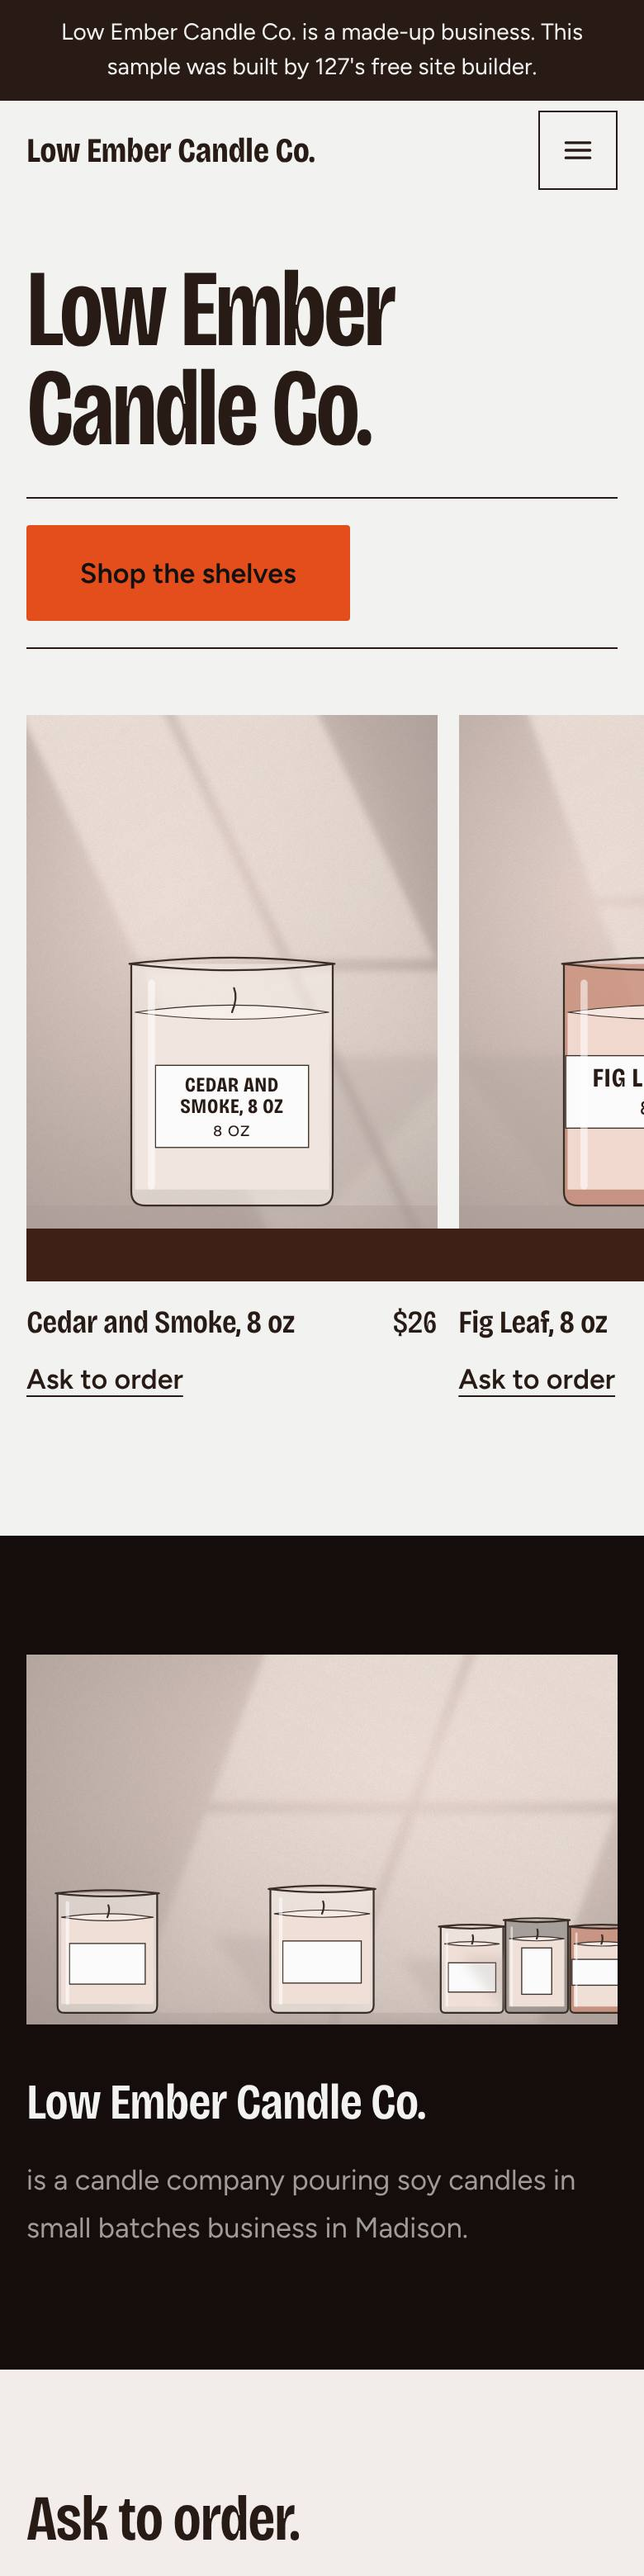
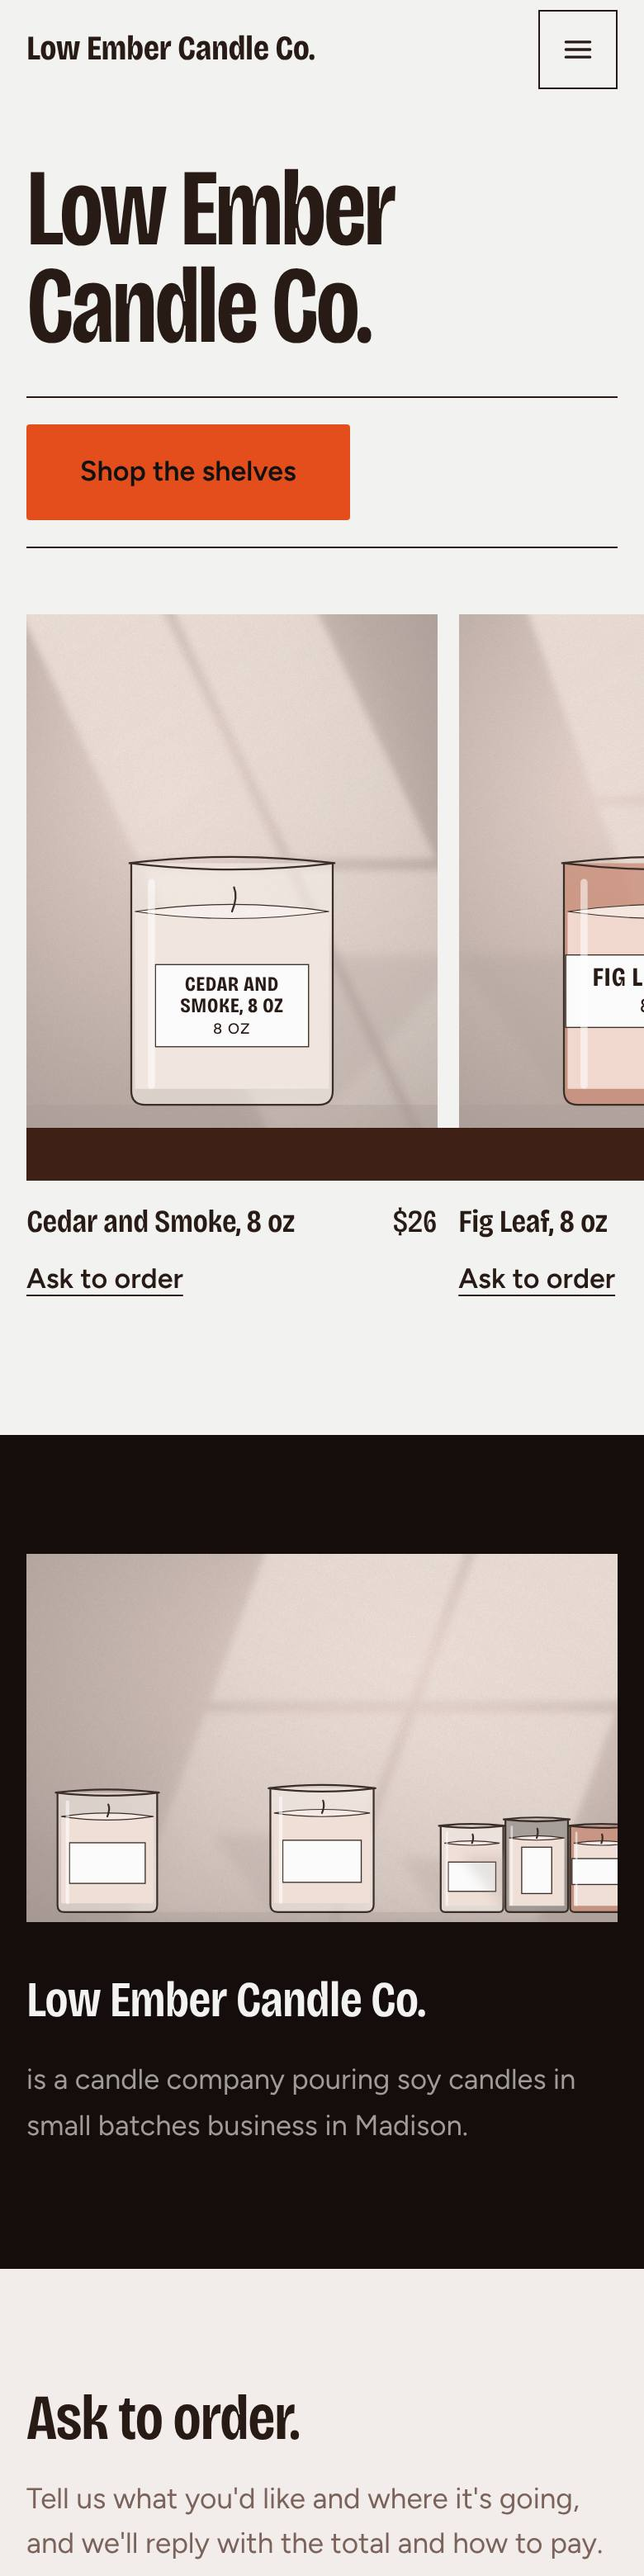
Verticals: leave the made-up-business note off the phone posters (the caption says it)
Claude-Session: https://claude.ai/code/session_01YAL187PJS8fXFrJsLpLuYH

diff --git a/scripts/build-verticals.js b/scripts/build-verticals.js
@@ -110,8 +110,10 @@ async function shots(list) {
   for (const v of list) {
     await page.goto(`file://${path.join(V.SAMPLES_DIR, `${v.slug}.html`)}`, { waitUntil: 'load' });
     await page.waitForTimeout(400);
-    // A full-page shot pins fixed bars (the phone call-to-action bar, a sticky nav) mid-page: take them out.
+    // A full-page shot pins fixed bars (the phone call-to-action bar, a sticky nav) mid-page: take them out. The
+    // made-up-business note goes too: the phone's corners clip it, and the caption under the phone says it instead.
     await page.evaluate(() => {
+      for (const el of document.querySelectorAll('.sample-bar')) el.style.setProperty('display', 'none', 'important');
       for (const el of document.querySelectorAll('body *')) {
         const pos = getComputedStyle(el).position;
         if (pos === 'fixed' || (pos === 'sticky' && el.getBoundingClientRect().top > 200)) el.style.setProperty('display', 'none', 'important');
